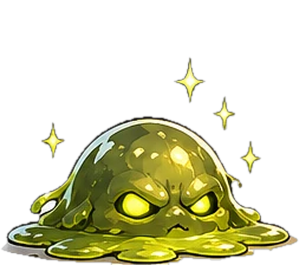
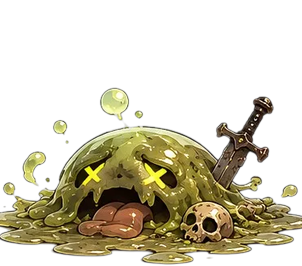
몬스터 포즈 확장: 고블린·슬라임 공격/슬라임 피격·쓰러짐 교체, 마법 골렘·암흑 기사·던전 수호자 공격 포즈, 포즈를 기본 그림 기준으로 연결
Claude-Session: https://claude.ai/code/session_013foBeASNo8fQFmm9TxP3pv

diff --git a/battle-fx.js b/battle-fx.js
@@ -381,14 +381,23 @@
 (function () {
   const P = BattleScene.prototype;
   const D = "images/monsters/";
+  // 키 = 몬스터 기본 그림 파일. 같은 그림을 쓰는 몬스터(던전 수호자·마왕군 간부 등)는 포즈를 함께 쓴다.
+  // 값이 배열이면 쓸 때마다 무작위로 고른다. 한 줄에 한 몬스터.
   const MONSTER_POSES = {
-    goblin:   { hit: D + "goblin_hit.png",      dead: D + "goblin_dead.png" },
-    skeleton: { attack: D + "skeleton_attack.png", dead: D + "skeleton_dead.png" },   // 해골 기사: 피격 그림은 아직 없어 기본 번쩍임을 쓴다
-    slime:    { hit: D + "slime_hit.png",       dead: D + "slime_dead.png" },
+    "sd_goblin.png":    { hit: [D + "goblin_hit.png"], attack: [D + "goblin_atk1.png", D + "goblin_atk2.png", D + "goblin_atk3.png"], dead: [D + "goblin_dead.png"] },
+    "sd_skeleton.png":  { attack: [D + "skeleton_attack.png"], dead: [D + "skeleton_dead.png"] },
+    "sd_slime.png":     { hit: [D + "slime_hit.png"], attack: [D + "slime_atk1.png", D + "slime_atk2.png"], dead: [D + "slime_dead.png"] },
+    "sd_magic_Golem.png": { attack: [D + "golem_atk1.png", D + "golem_atk2.png", D + "golem_atk3.png"] },
+    "sd_Dungeon_Guardian.png": { attack: [D + "guardian_atk1.png", D + "guardian_atk2.png", D + "guardian_atk3.png"] },
+    "sd_guardian.png":  { attack: [D + "darkknight_atk1.png", D + "darkknight_atk2.png", D + "darkknight_atk3.png"] },
   };
   window.MONSTER_POSES = MONSTER_POSES;
 
-  P._pose = function (kind) { return MONSTER_POSES[this.game?.currentMonster?.id]?.[kind] || null; };
+  const spriteOf = (m) => (m?.img || "").split("/").pop();
+  P._pose = function (kind) {
+    const list = MONSTER_POSES[spriteOf(this.game?.currentMonster)]?.[kind];
+    return list?.length ? list[Math.floor(Math.random() * list.length)] : null;
+  };
 
   // 잠깐 포즈 그림으로 바꿨다가 원래 그림으로 되돌린다
   P._showPose = function (kind, ms) {
@@ -411,7 +420,7 @@
     this.el?.playerWrap?.classList.remove("defeat");
     const r = _start.apply(this, arguments);
     this._baseSrc = this.el?.monsterImg?.getAttribute("src") ?? null;
-    for (const src of Object.values(MONSTER_POSES[monster?.id] || {})) { const i = new Image(); i.src = src; }
+    for (const list of Object.values(MONSTER_POSES[spriteOf(monster)] || {})) for (const src of list) { const i = new Image(); i.src = src; }
     return r;
   };
 

diff --git a/sw.js b/sw.js
@@ -3,9 +3,9 @@
 //  전략: Cache First (게임 리소스) + Network First (외부)
 // ═══════════════════════════════════════════════════
 
-const CACHE_NAME    = "rpg-v65";
-const STATIC_CACHE  = "rpg-static-v65";
-const DYNAMIC_CACHE = "rpg-dynamic-v65";
+const CACHE_NAME    = "rpg-v66";
+const STATIC_CACHE  = "rpg-static-v66";
+const DYNAMIC_CACHE = "rpg-dynamic-v66";
 
 // ── 핵심 파일 (반드시 캐시) ──────────────────────────
 const CORE_FILES = [
@@ -41,12 +41,26 @@ const IMAGE_FILES = [
   "./images/Dungeon_BOSS_ROOM.png",
   "./images/Abyss_Dungeon.png",
   "./images/BANK.png",
-  "./images/monsters/goblin_hit.png",
+  "./images/monsters/darkknight_atk1.png",
+  "./images/monsters/darkknight_atk2.png",
+  "./images/monsters/darkknight_atk3.png",
+  "./images/monsters/goblin_atk1.png",
+  "./images/monsters/goblin_atk2.png",
+  "./images/monsters/goblin_atk3.png",
   "./images/monsters/goblin_dead.png",
+  "./images/monsters/goblin_hit.png",
+  "./images/monsters/golem_atk1.png",
+  "./images/monsters/golem_atk2.png",
+  "./images/monsters/golem_atk3.png",
+  "./images/monsters/guardian_atk1.png",
+  "./images/monsters/guardian_atk2.png",
+  "./images/monsters/guardian_atk3.png",
   "./images/monsters/skeleton_attack.png",
   "./images/monsters/skeleton_dead.png",
-  "./images/monsters/slime_hit.png",
+  "./images/monsters/slime_atk1.png",
+  "./images/monsters/slime_atk2.png",
   "./images/monsters/slime_dead.png",
+  "./images/monsters/slime_hit.png",
   "./images/town_bustling.png",
   "./images/Grim_mining_village_beneath_rocky_cliffs.png",
   "./images/Gold_discovery_festival_in_the_mountains.png",

diff --git a/tools/prep-poses.py b/tools/prep-poses.py
@@ -16,18 +16,36 @@ from PIL import Image, ImageFilter
 ROOT = Path(__file__).resolve().parent.parent
 # (출력 이름, 원본 파일, 기본 그림, 잘라낼 영역(없으면 전체))
 JOBS = [
+    # (출력 이름, 원본 파일, 기본 그림, 잘라낼 영역(없으면 전체))
     ("goblin_hit",    "3.png",  "sd_goblin.png",   None),
     ("goblin_dead",   "4.png",  "sd_goblin.png",   None),
+    ("goblin_atk1",   "11.webp", "sd_goblin.png",  (30, 395, 350, 680)),     # 베기 + 궤적
+    ("goblin_atk2",   "11.webp", "sd_goblin.png",  (340, 415, 640, 680)),    # 돌진
+    ("goblin_atk3",   "11.webp", "sd_goblin.png",  (340, 70, 610, 370)),     # 칼 들고 포효
     ("skeleton_attack", "5.png", "sd_skeleton.png", None),
     ("skeleton_dead", "6.png",  "sd_skeleton.png", None),
-    # 슬라임 시트(7.webp): 맨 아래 줄 5번째(우는 얼굴) = 피격, 맨 위 줄 5번째(납작해진 모습) = 쓰러짐
-    ("slime_hit",     "7.webp", "sd_slime.png",    (975, 703, 1252, 975)),
-    ("slime_dead",    "7.webp", "sd_slime.png",    (1262, 118, 1520, 322)),
+    # 슬라임 시트(12.webp): 둘째 줄 3번째(칼에 찔림) = 피격, 셋째 줄 4번째(X 눈) = 쓰러짐, 둘째 줄 1·2번째 = 공격
+    ("slime_hit",     "12.webp", "sd_slime.png",   (870, 380, 1190, 690)),
+    ("slime_dead",    "12.webp", "sd_slime.png",   (1110, 740, 1536, 1000)),
+    ("slime_atk1",    "12.webp", "sd_slime.png",   (0, 370, 420, 700)),
+    ("slime_atk2",    "12.webp", "sd_slime.png",   (420, 390, 860, 690)),
+    # 마법 골렘(8.webp 둘째 줄), 던전 수호자(10.webp), 암흑 기사(9.webp)
+    ("golem_atk1",    "8.webp",  "sd_magic_Golem.png", (330, 460, 690, 735)),
+    ("golem_atk2",    "8.webp",  "sd_magic_Golem.png", (680, 460, 965, 735)),
+    ("golem_atk3",    "8.webp",  "sd_magic_Golem.png", (10, 460, 325, 735)),
+    ("guardian_atk1", "10.webp", "sd_Dungeon_Guardian.png", (395, 40, 775, 370)),
+    ("guardian_atk2", "10.webp", "sd_Dungeon_Guardian.png", (1120, 30, 1530, 370)),
+    ("guardian_atk3", "10.webp", "sd_Dungeon_Guardian.png", (40, 410, 420, 700)),
+    ("darkknight_atk1", "9.webp", "sd_guardian.png", (30, 380, 480, 670)),
+    ("darkknight_atk2", "9.webp", "sd_guardian.png", (470, 380, 800, 670)),
+    ("darkknight_atk3", "9.webp", "sd_guardian.png", (840, 380, 1175, 670)),
 ]
 LIGHT = 236   # 이 값 이상이면 '흰 배경'으로 본다
 
 
 def cut_background(rgb):
+    if rgb.mode == "RGBA" and rgb.split()[3].getextrema()[0] < 200:      # 이미 투명 배경인 시트: 알파를 그대로 쓴다
+        return _clean_fragments(rgb)
     a = np.asarray(rgb.convert("RGB")).astype(np.int16)
     h, w, _ = a.shape
     light = a.min(axis=2) >= LIGHT
@@ -60,6 +78,17 @@ def cut_background(rgb):
                             seen[ny, nx] = True; q2.append((ny, nx))
                 if len(comp) >= 60:
                     for y, x in comp: bg[y, x] = True
+    return _finish(rgb, bg)
+
+
+def _clean_fragments(rgba):
+    al = np.asarray(rgba.split()[3])
+    out = _finish(rgba.convert("RGB"), al < 16, keep_alpha=al)
+    return out
+
+
+def _finish(rgb, bg, keep_alpha=None):
+    h, w = bg.shape
     # 자른 가장자리에 걸린 이웃 그림의 조각을 지운다(가장 큰 덩어리는 유지)
     fg = ~bg
     lab = np.zeros((h, w), np.int32); comps = []
@@ -78,8 +107,11 @@ def cut_background(rgb):
     for i, pts in enumerate(comps):
         if i != biggest and any(y in (0, h - 1) or x in (0, w - 1) for y, x in pts):
             for y, x in pts: bg[y, x] = True
-    alpha = Image.fromarray(((~bg) * 255).astype(np.uint8))
-    alpha = alpha.filter(ImageFilter.MinFilter(3)).filter(ImageFilter.GaussianBlur(0.8))   # 흰 테두리 제거 + 부드럽게
+    if keep_alpha is not None:
+        alpha = Image.fromarray(np.where(bg, 0, keep_alpha).astype(np.uint8))              # 원래 알파 유지(가장자리 조각만 제거)
+    else:
+        alpha = Image.fromarray(((~bg) * 255).astype(np.uint8))
+        alpha = alpha.filter(ImageFilter.MinFilter(3)).filter(ImageFilter.GaussianBlur(0.8))   # 흰 테두리 제거 + 부드럽게
     out = rgb.convert("RGBA"); out.putalpha(alpha)
     return out
 
@@ -90,7 +122,7 @@ def fit_on_base(pose, base_path):
     pb = pose.split()[3].point(lambda v: 255 if v > 24 else 0).getbbox()
     pose = pose.crop(pb)
     bw, bh = bb[2] - bb[0], bb[3] - bb[1]
-    s = min(bw / pose.width, bh / pose.height)
+    s = min(bw * 1.1 / pose.width, bh * 1.1 / pose.height)   # 기본 그림 영역보다 10% 까지는 허용(검·궤적 때문에 몸이 작아지지 않게)
     pose = pose.resize((max(1, round(pose.width * s)), max(1, round(pose.height * s))), Image.LANCZOS)
     canvas = Image.new("RGBA", base.size, (0, 0, 0, 0))
     canvas.paste(pose, (bb[0] + (bw - pose.width) // 2, bb[3] - pose.height), pose)   # 발(아래) 기준 정렬
@@ -101,7 +133,7 @@ def main():
     src = Path(sys.argv[1])
     out_dir = ROOT / "images" / "monsters"; out_dir.mkdir(exist_ok=True)
     for name, f, base, rect in JOBS:
-        im = Image.open(src / f).convert("RGB")
+        im = Image.open(src / f).convert("RGBA")
         if rect: im = im.crop(rect)
         res = fit_on_base(cut_background(im), ROOT / "images" / base)
         res.save(out_dir / f"{name}.png", optimize=True)

diff --git a/README.md b/README.md
@@ -210,7 +210,7 @@ node tools/fullkit-sim.js --compare   # 직업 × 장비 가정 비교
 - 회복 숫자(+HP), 상태이상 적용 연출(화상 불꽃·중독 방울·기절 별)과 지속 상태 표시(몬스터 색조), 화상·중독 피해 숫자, 기절로 건너뛴 턴 표시, 방어 태세 방어막과 방어 순간 표시
 - 효과음: 파일 없이 WebAudio 로 합성(타격·치명타·피격·스킬·방어·상태이상 등). 처치할 때마다 레벨업 소리가 나던 문제 수정(레벨업일 때만), 힐러/탱커 평타 소리 추가
 - 옵션(전투 화면 우상단): ⏩ 연출 빠르게(0.6배) · 🎞 화면 효과 줄이기(흔들림·번쩍임·입자 감소, 시스템 '동작 줄이기' 설정을 기본값으로 따름)
-- 몬스터 포즈: 고블린(피격·쓰러짐), 해골 기사(공격·쓰러짐), 슬라임(피격·쓰러짐) 그림 적용. 맞는 순간/반격하는 순간/처치 시 그림이 바뀌고,
+- 몬스터 포즈(키 = 몬스터 기본 그림 파일, 같은 그림을 쓰는 몬스터는 함께 사용, 여러 장이면 무작위): 고블린(피격·공격 3종·쓰러짐), 해골 기사(공격·쓰러짐), 슬라임(피격·공격 2종·쓰러짐), 마법 골렘·암흑 기사·던전 수호자/마왕군 간부(공격 3종씩) 적용. 맞는 순간/반격하는 순간/처치 시 그림이 바뀌고,
   그림이 없는 몬스터는 하얗게 번쩍이며 사라진다. 처치 연출이 끝난 뒤 보상 팝업이 뜬다. 플레이어가 쓰러지면 쓰러지는 모션이 나온다
 - 포즈 추가 방법: 흰 배경 그림을 `python3 tools/prep-poses.py <폴더>`(`JOBS` 표 수정)로 투명 PNG 로 만들고 `battle-fx.js`의 `MONSTER_POSES`에 한 줄 추가
 
